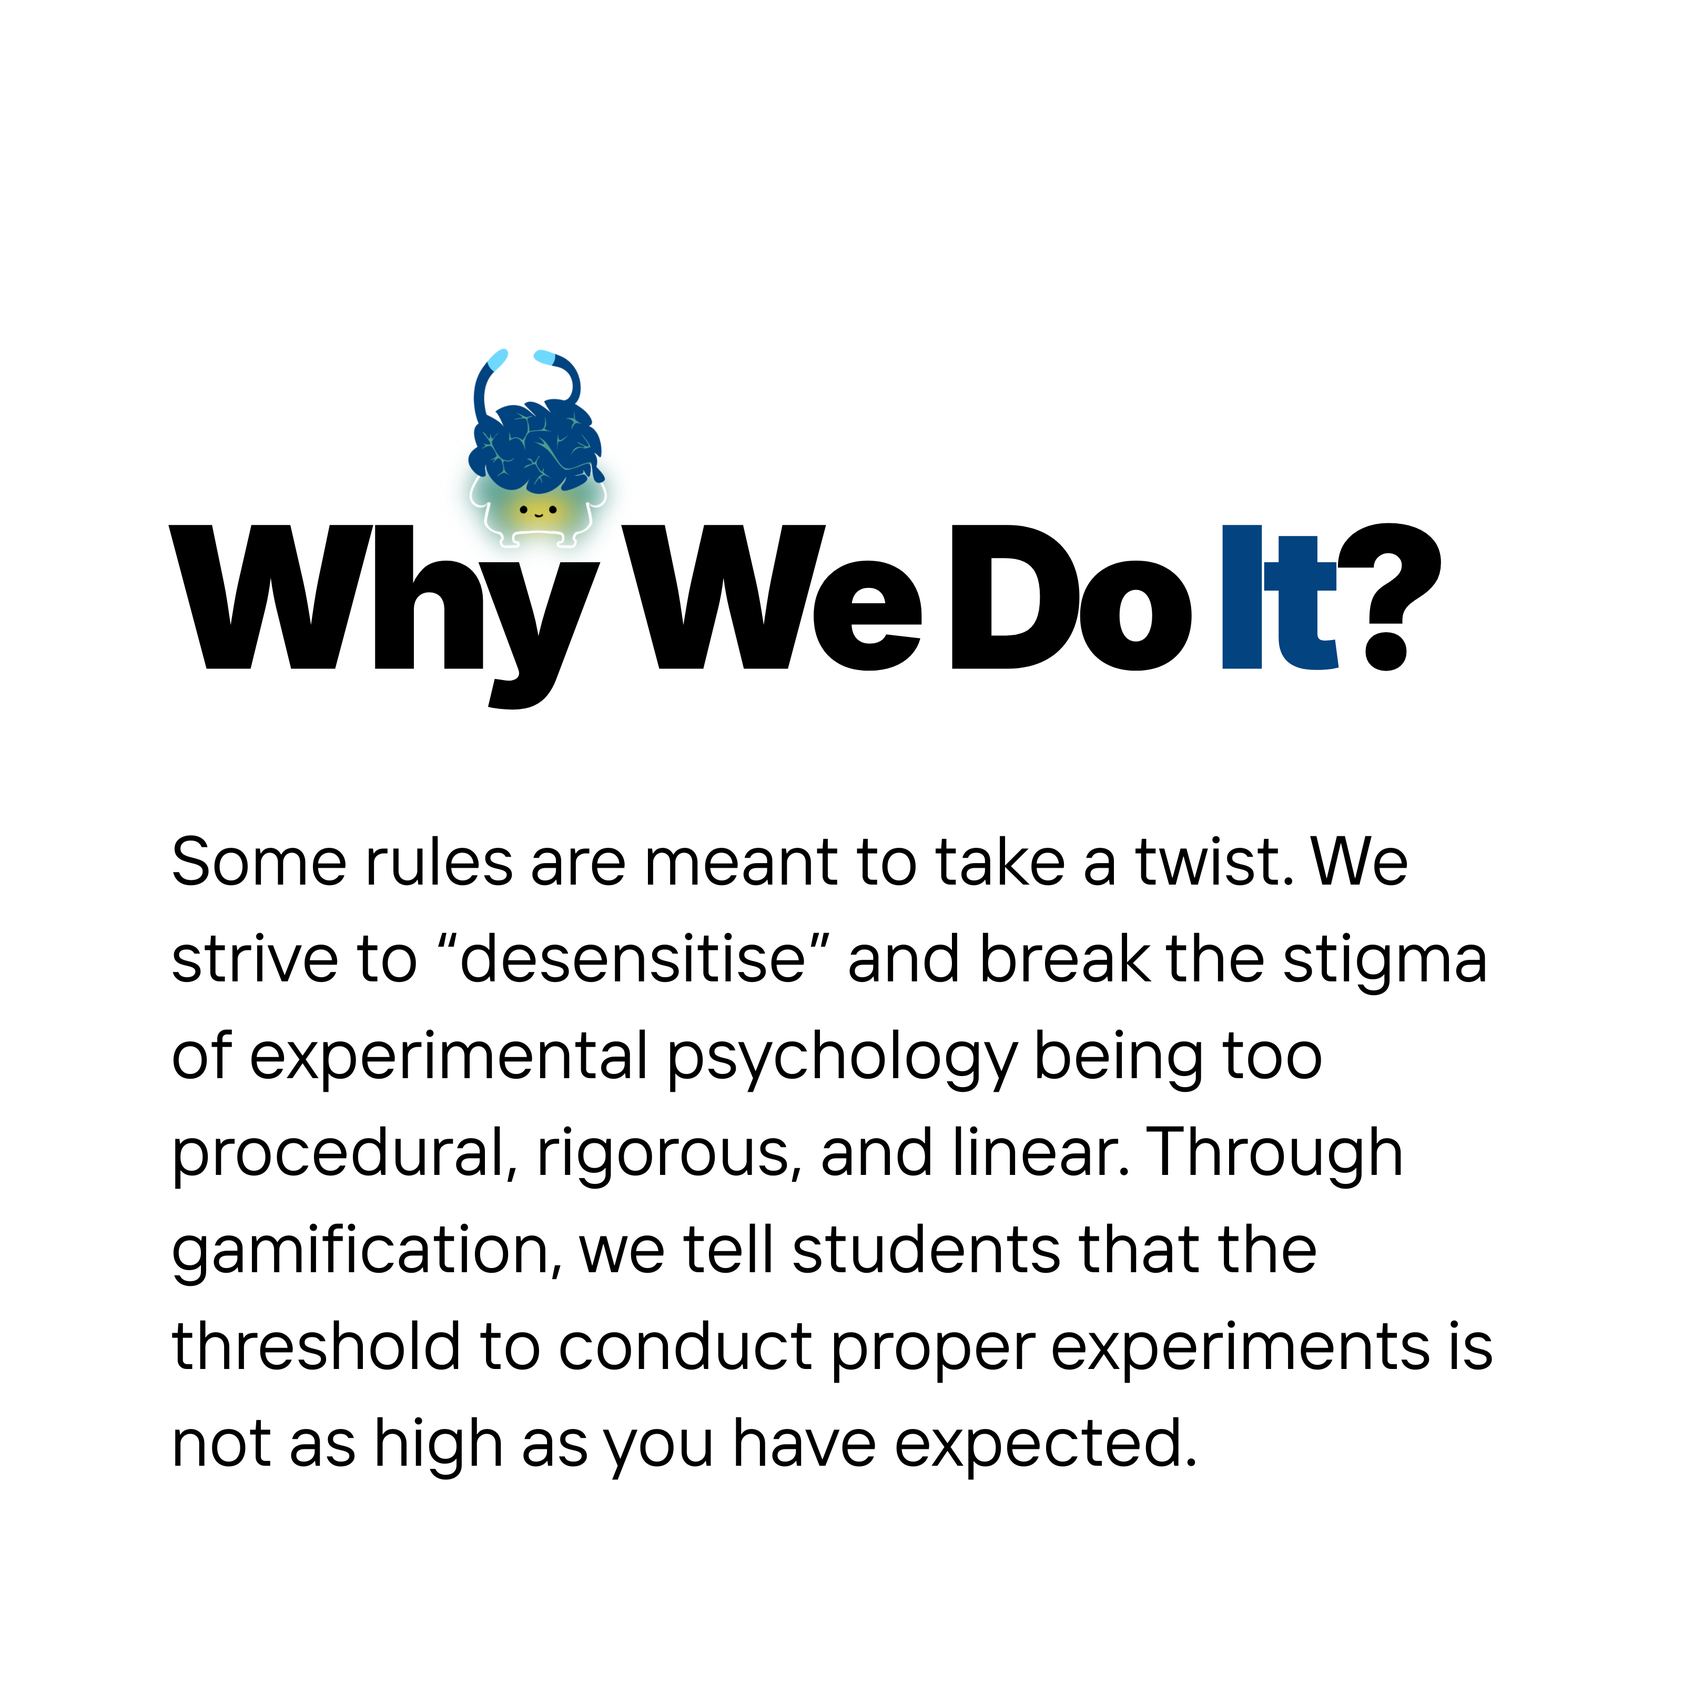
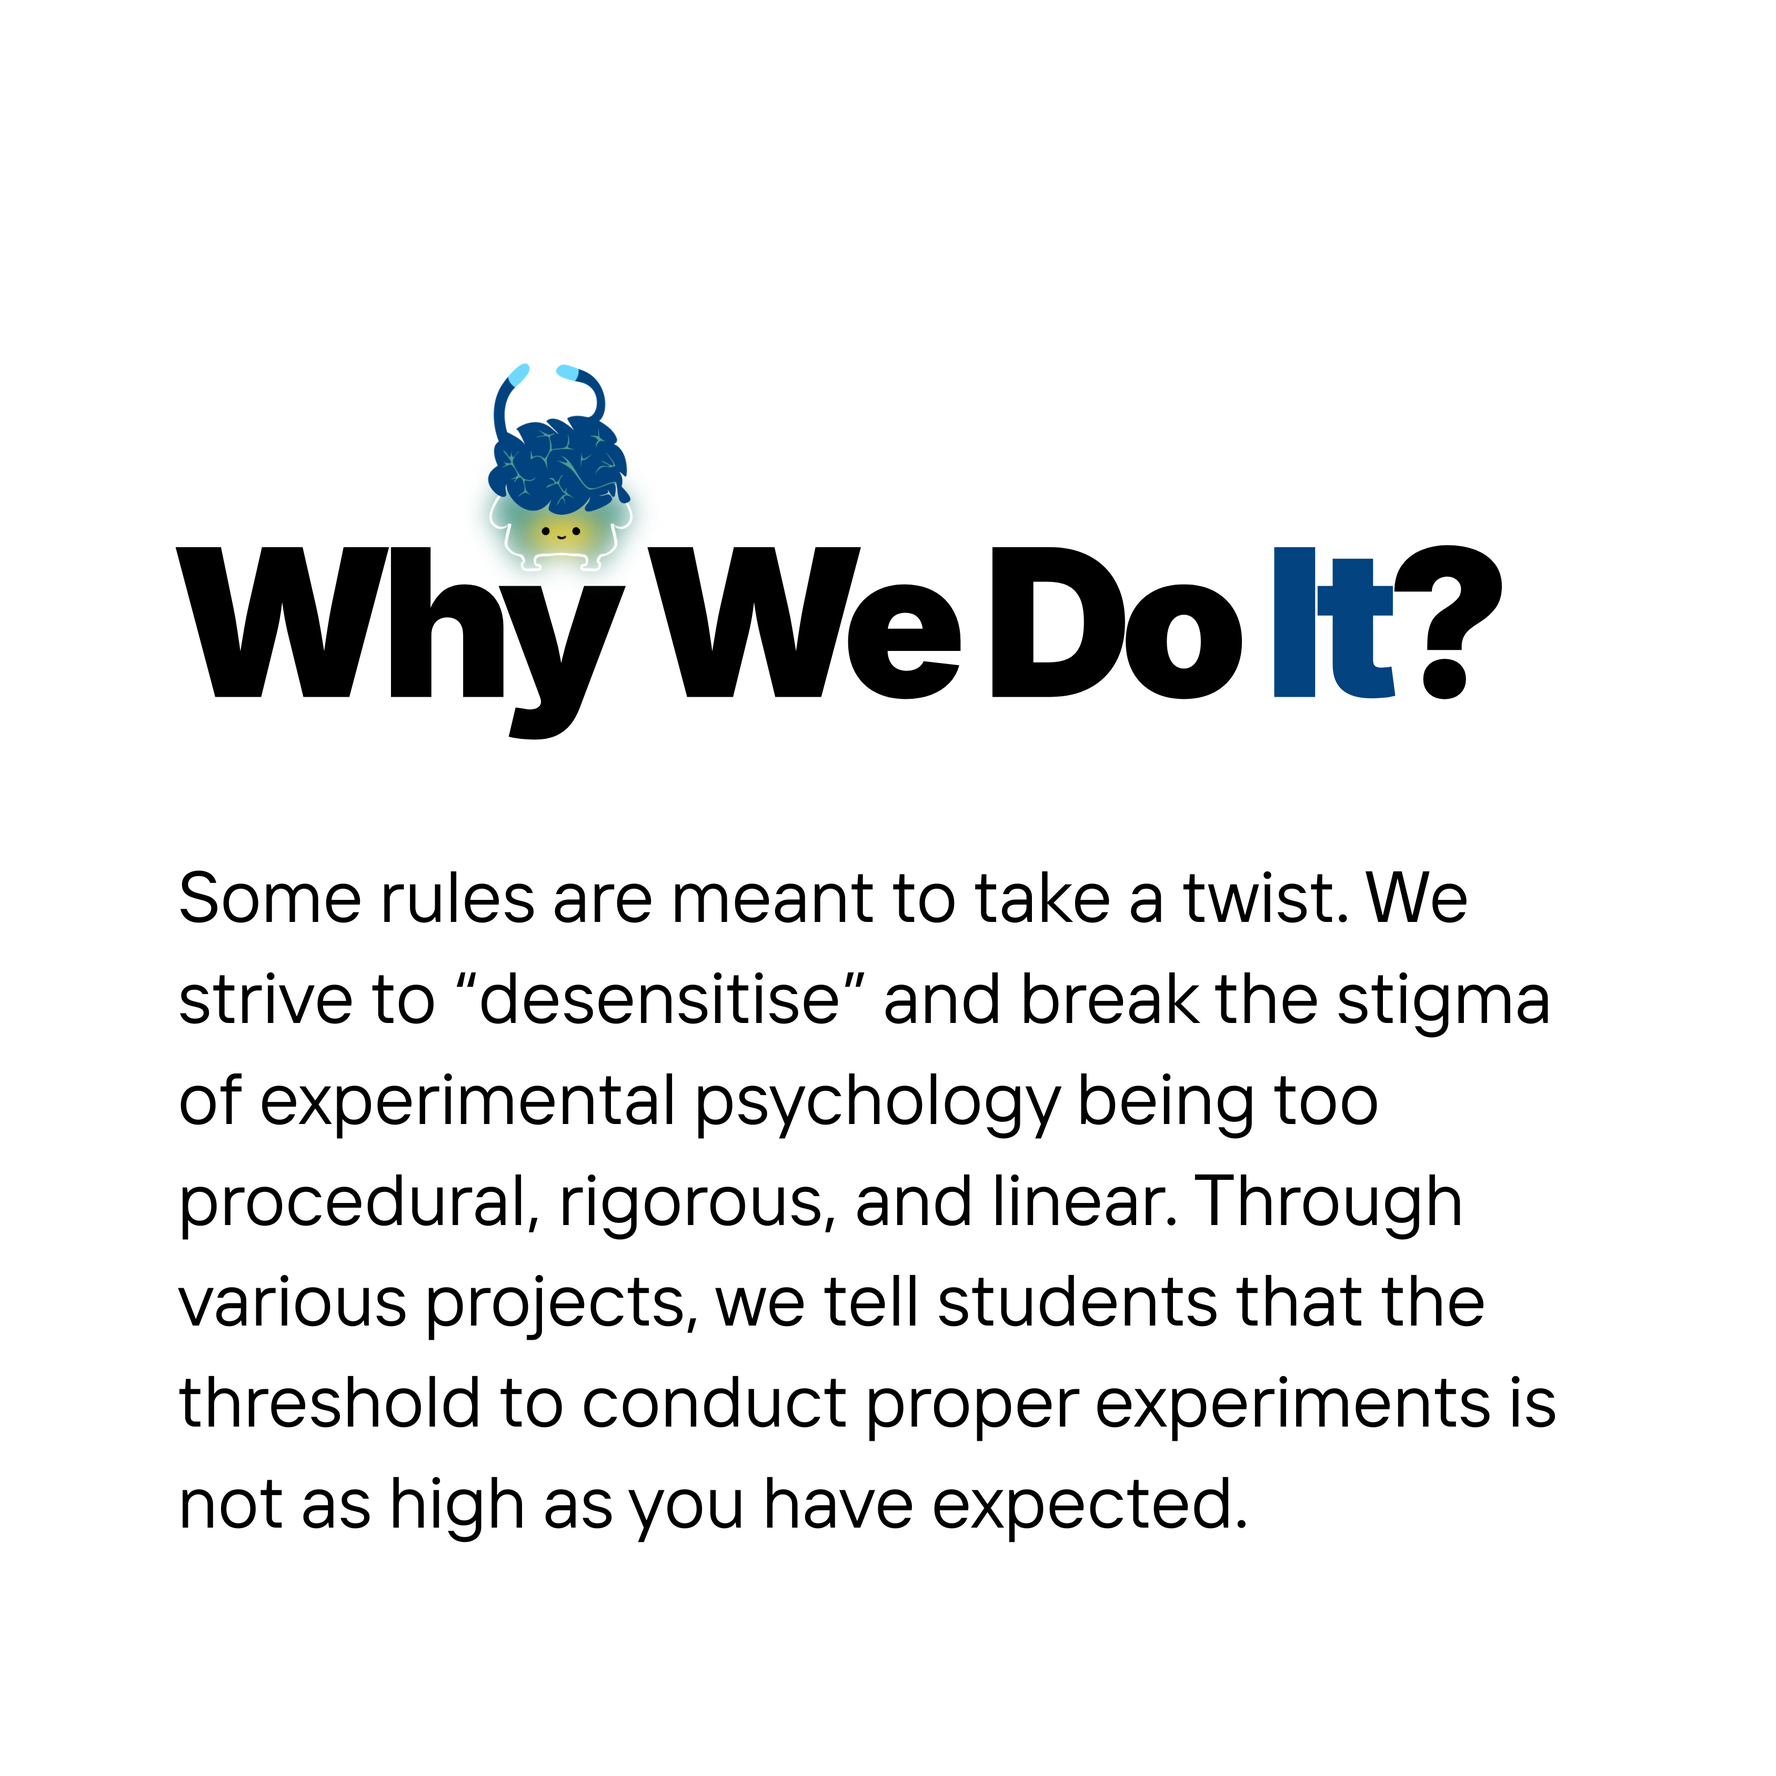
Word changes + Asset added + Publications modified

Changed region(s): [[0.0935, 0.717, 0.8417, 0.7481]]

diff --git a/resources/index.html b/resources/index.html
@@ -24,6 +24,7 @@
  
 <nav class="side-nav" id="sideNav">
   <button class="dot-btn" data-target="resources-index" aria-label="Go to Resources"><span class="diamond"></span></button>
+  <button class="dot-btn" data-target="pub-1" aria-label="Go to Publications"><span class="diamond"></span></button>
   <button class="dot-btn" data-target="tips-1" aria-label="Go to Tips and Tricks 1"><span class="diamond"></span></button>
   <button class="dot-btn" data-target="tips-2" aria-label="Go to Tips and Tricks 2"><span class="diamond"></span></button>
   <button class="dot-btn" data-target="psychopy-tips" aria-label="Go to PsychoPy Tips and Tricks"><span class="diamond"></span></button>
@@ -92,7 +93,12 @@
           <span class="pub-year display">2018</span>
           <span class="pub-connector"><span class="pub-dot"></span></span>
         </div>
-        <p class="pub-citation">Mah, S. L., &amp; George, P. (2018). A forgetful and angry old lady. Malaysian family physician : the official journal of the Academy of Family Physicians of Malaysia, 13(2), 26–28.</p>
+        <p class="pub-citation">
+          Mah, S. L., & George, P. (2018). A forgetful and angry old lady. 
+          <span class="apa-journal">Malaysian family physician : the official journal of the Academy of Family Physicians of Malaysia</span>, 
+          <span class="apa-volume">13</span>(2), 26–28.
+        </p>
+        <!-- <p class="pub-citation">Mah, S. L., &amp; George, P. (2018). A forgetful and angry old lady. Malaysian family physician : the official journal of the Academy of Family Physicians of Malaysia, 13(2), 26–28.</p> -->
         <div class="pub-links-row">
           <a href="https://pmc.ncbi.nlm.nih.gov/articles/PMC6173962/" target="_blank" rel="noopener">View on PubMed</a>
         </div>
@@ -113,7 +119,13 @@
           <span class="pub-year display">2022</span>
           <span class="pub-connector"><span class="pub-dot"></span></span>
         </div>
-        <p class="pub-citation">Dawes, C., Quinn, D., Bickerdike, A., O&rsquo;Neill, C., Granger, K. T., Pereira, S. C., Mah, S. L., Haselgrove, M., Waddington, J. L., O&rsquo;Tuathaigh, C., &amp; Moran, P. M. (2022). Latent inhibition, aberrant salience, and schizotypy traits in cannabis users. Schizophrenia Research: Cognition, 28, 100235.</p>
+        <p class="pub-citation">
+          Dawes, C., Quinn, D., Bickerdike, A., O’Neill, C., Granger, K. T., Pereira, S. C., Mah, S. L., Haselgrove, M., Waddington, J. L., O’Tuathaigh, C., &amp; Moran, P. M. (2022). Latent inhibition, aberrant salience, and schizotypy traits in cannabis users. 
+          <span class="apa-journal">Schizophrenia Research: Cognition</span>, 
+          <span class="apa-volume">28</span>, 100235. 
+          <!-- <a href="https://doi.org/10.1016/j.scog.2021.100235" class="apa-doi">https://doi.org/10.1016/j.scog.2021.100235</a> -->
+        </p>
+        <!-- <p class="pub-citation">Dawes, C., Quinn, D., Bickerdike, A., O&rsquo;Neill, C., Granger, K. T., Pereira, S. C., Mah, S. L., Haselgrove, M., Waddington, J. L., O&rsquo;Tuathaigh, C., &amp; Moran, P. M. (2022). Latent inhibition, aberrant salience, and schizotypy traits in cannabis users. Schizophrenia Research: Cognition, 28, 100235.</p> -->
         <div class="pub-links-row">
           <a href="https://doi.org/10.1016/j.scog.2021.100235" target="_blank" rel="noopener">View on Elsevier</a>
         </div>
@@ -126,34 +138,73 @@
     <div class="group-content pub-timeline">
       <div class="pub-entry">
         <div class="pub-year-row">
-          <span class="pub-year display">2023</span>
+          <span class="pub-year display">2024</span>
           <span class="pub-connector"><span class="pub-dot"></span></span>
         </div>
-        <p class="pub-citation">Haselgrove, M., &amp; Mah, S. L. (2023). A developmental trajectory of latent inhibition. Journal of Experimental Psychology: Animal Learning and Cognition, 50(3), 186-196.</p>
+        <p class="pub-citation">
+          Mah, S. L., &amp; Haselgrove, M. (2024). A developmental trajectory of latent inhibition. 
+          <span class="apa-journal">Journal of Experimental Psychology: Animal Learning and Cognition</span>, 
+          <span class="apa-volume">50</span>(3), 186–196. 
+          <!-- <a href="https://doi.org/10.1037/xan0000381" class="apa-doi">https://doi.org/10.1037/xan0000381</a> -->
+        </p>
+        <!-- <p class="pub-citation">Haselgrove, M., &amp; Mah, S. L. (2023). A developmental trajectory of latent inhibition. Journal of Experimental Psychology: Animal Learning and Cognition, 50(3), 186-196.</p> -->
         <div class="pub-links-row">
           <a href="https://doi.org/10.1037/xan0000381" target="_blank" rel="noopener">View on APA PsychNet</a>
           <a href="https://nottingham-repository.worktribe.com/output/32745728" target="_blank" rel="noopener">View on Nottingham Repo</a>
         </div>
+      </div>
+
+      <div class="pub-entry">
+        <div class="pub-year-row">
+          <span class="pub-year display">2025</span>
+          <span class="pub-connector"><span class="pub-dot"></span></span>
+        </div>
+        <p class="pub-citation">
+          Haselgrove, M., Lagator, S., Mah, S. L., &amp; Gray, E. K. (2025). Novelty mismatch as a determinant of latent inhibition. 
+          <span class="apa-journal">Journal of Experimental Psychology: Animal Learning and Cognition</span>, 
+          <span class="apa-volume">51</span>(1), 13–34. 
+        </p>
+        <!-- <p class="pub-citation">Haselgrove, M., Lagator, S., Mah, S. L., &amp; Gray, E. K. (2025). Novelty mismatch as a determinant of latent inhibition. Journal of Experimental Psychology: Animal Learning and Cognition, 51(1), 13–34.</p> -->
+          <div class="pub-links-row">
+            <a href="https://doi.org/10.1037/xan0000388" target="_blank" rel="noopener">View on APA PsychNet</a>
+          </div>
       </div>
       <div class="pub-entry">
         <div class="pub-year-row">
           <span class="pub-year display">2024</span>
           <span class="pub-connector"><span class="pub-dot"></span></span>
         </div>
-        <p class="pub-citation">Mah, S. L., &amp; Haselgrove, M. (2024). A developmental trajectory of latent inhibition. Journal of Experimental Psychology: Animal Learning and Cognition, 50(3), 186–196.</p>
+        <p class="pub-citation">
+          Mah, S. L., &amp; Teoh, Z. Bin. (2026). Mental health on the big screen: Using popular films to understand mental health. 
+          <span class="apa-journal">International Journal of Disney Studies</span>, 
+          <span class="apa-volume">2</span>(2), 195–201. 
+        </p>
+        <!-- <p class="pub-citation">Mah, S. L., &amp; Haselgrove, M. (2024). A developmental trajectory of latent inhibition. Journal of Experimental Psychology: Animal Learning and Cognition, 50(3), 186–196.</p> -->
         <div class="pub-links-row">
-          <a href="https://doi.org/10.1037/xan0000381" target="_blank" rel="noopener">View on APA PsychNet</a>
+          <a href="https://doi.org/10.1386/ijds_00036_7" target="_blank" rel="noopener">View on Intellect Discover</a>
         </div>
       </div>
+    </div>
+  </section>
+
+    <section class="panel group-panel" id="pub-4">
+    
+    <div class="group-content pub-timeline">
       <div class="pub-entry">
         <div class="pub-year-row">
-          <span class="pub-year display">2025</span>
+          <span class="pub-year display">2026</span>
           <span class="pub-connector"><span class="pub-dot"></span></span>
         </div>
-        <p class="pub-citation">Haselgrove, M., Lagator, S., Mah, S. L., &amp; Gray, E. K. (2025). Novelty mismatch as a determinant of latent inhibition. Journal of Experimental Psychology: Animal Learning and Cognition, 51(1), 13–34.</p>
-          <div class="pub-links-row">
-            <a href="https://doi.org/10.1037/xan0000388" target="_blank" rel="noopener">View on APA PsychNet</a>
-          </div>
+        <!-- <p class="pub-citation">Mah, S. L. & Teoh, Z. B. (2026). Mental health on the big screen: Using popular films to ubderstand mental health. International Journal of Disney Studios, 2(2), 195-201.</p> -->
+        <p class="pub-citation">
+          Price, J., Beh, A., Chandesa, T., Mah, S. L., &amp; Khoo, J. (2026). 
+          <span class="apa-report-title">From policy to practice: Governing generative AI for coherent learning and assessment transformation</span> 
+          [Case study]. Advance HE Global Impact Grants 2026.
+        </p>
+        <div class="pub-links-row">
+          <a href="https://doi.org/10.1037/xan0000381" target="_blank" rel="noopener">View on APA PsychNet</a>
+          <a href="https://nottingham-repository.worktribe.com/output/32745728" target="_blank" rel="noopener">View on Nottingham Repo</a>
+        </div>
       </div>
     </div>
   </section>
@@ -316,7 +367,7 @@
   </section>
 
   <div class="footer-note">
-      <span>&copy; 2026 ALiEN Lab, Dr Mah Sue Lynn.</span>
+      <span>&copy; 2026 ALiEN Lab, Dr Sue Lynn Mah.</span>
       <span>All rights reserved.</span>
     </div>
  

diff --git a/lablife/index.html b/lablife/index.html
@@ -53,7 +53,7 @@
         <img class="lablife-image" src="../assets/lablife-1.png" alt="Literature Review Workshop">
         <div class="lablife-copy">
           <h2 class="lablife-heading display">Literature Review Workshop</h2>
-          <p class="lablife-body">Led by Dr. Ooi Wee Liam and Dr. Mah Sue Lynn, the workshop held on 9 December covered identifying literature gaps and developing clear literature reviews through practical activities and feedback. Overall, it successfully supported both final-year and second-year students in preparing for their research projects.</p>
+          <p class="lablife-body">Led by Dr. Wee Liam Ooi and Dr. Sue Lynn Mah, the workshop held on 9 December covered identifying literature gaps and developing clear literature reviews through practical activities and feedback. Overall, it successfully supported both final-year and second-year students in preparing for their research projects.</p>
         </div>
       </article>
 
@@ -87,7 +87,7 @@
         <img class="lablife-image" src="../assets/lablife-4.png" alt="Literature Review Workshop">
         <div class="lablife-copy">
           <h2 class="lablife-heading display">Visit to Mapúa University, Philippines</h2>
-          <p class="lablife-body">Led by Dr. Mah Sue Lynn and Dr. Nancy Ng, the visit included masterclasses and workshops on PsychoPy and real-time body tracking using MediaPipe, alongside campus and facility tours and meetings with faculty. The trip also exposed participants to diverse psychology career pathways and potential future collaborations between institutions.</p>
+          <p class="lablife-body">Led by Dr. Sue Lynn Mah and Dr. Nancy Ng, the visit included masterclasses and workshops on PsychoPy and real-time body tracking using MediaPipe, alongside campus and facility tours and meetings with faculty. The trip also exposed participants to diverse psychology career pathways and potential future collaborations between institutions.</p>
         </div>
       </article>
 
@@ -95,7 +95,7 @@
   </div>
 
   <div class="footer-note lablife-footer">
-    <span>&copy; 2026 ALiEN Lab, Dr Mah Sue Lynn.</span>
+    <span>&copy; 2026 ALiEN Lab, Dr Sue Lynn Mah.</span>
     <span>All rights reserved.</span>
   </div>
 </main>

diff --git a/index.html b/index.html
@@ -80,7 +80,7 @@
       </div>
       <div>
         <h2 class="we-are-title display">We <span class="accent">are</span></h2>
-        <p class="we-are-body">an experimental psychology lab that helps students design innovative behavioural experiments, create gamified research tasks, and collaborate on everything from developmental studies to playful case studies, providing early exposure in conducting hands-on psychological experiments and in discovering the various fields of psychology.</p>
+        <p class="we-are-body">an experimental psychology lab that designs innovative behavioural experiments, create gamified research tasks, and collaborate on everything from developmental studies to case studies, providing early exposure in conducting hands-on psychological experiments and in discovering the various fields of psychology.</p>
         <div class="stat-row">
           <div><b>12</b><span>active members</span></div>
           <div><b>5</b><span>studies run</span></div>
@@ -105,7 +105,7 @@
       </div>
       <div class="work-tile wt2">
         <div class="tag">Attention study</div>
-        <h5>Coral Task</h5>
+        <h5>Corsi Task</h5>
       </div>
       <div class="work-tile wt3"><div class="tag">Perception study</div><h5>Calculator</h5></div>
       <div class="work-tile wt4"><div class="tag">Memory study</div><h5>Assessing Risk Taking in Children</h5></div>
@@ -152,7 +152,7 @@
   </section>
 
     <div class="footer-note">
-      <span>&copy; 2026 ALiEN Lab, Dr Mah Sue Lynn.</span>
+      <span>&copy; 2026 ALiEN Lab, Dr Sue Lynn Mah.</span>
       <span>All rights reserved.</span>
     </div>
 

diff --git a/story/index.html b/story/index.html
@@ -55,7 +55,7 @@
         <h1 class="story-hero-title display">How It Started</h1>
         <p class="story-hero-date">On 21st July, 2025,</p>
         <p class="story-hero-body">four enthusiastic students came knocking on Dr Mah&rsquo;s office door, seeking an opportunity to work as research assistants for her. Believing in her core values, Dr Mah decided to establish ALiEN Lab despite it being an informal lab.</p>
-        <p class="story-hero-body">She did not only want to provide her students with hands-on experience in real-world academic projects, but she also hoped that experimental psychology, her expertise, could be viewed as fun and engaging instead of procedural and rigorous.</p>
+        <p class="story-hero-body">She did not only want to provide her students with hands-on experience in real-world academic projects, but she also hoped that experimental psychology, her expertise, could be viewed as accessible and engaging instead of procedural and rigorous.</p>
       </div>
     </div>
   </section>
@@ -92,7 +92,7 @@
   </section>
 
   <div class="footer-note">
-    <span>&copy; 2026 ALiEN Lab, Dr Mah Sue Lynn.</span>
+    <span>&copy; 2026 ALiEN Lab, Dr Sue Lynn Mah.</span>
     <span>All rights reserved.</span>
   </div>
 

diff --git a/team/index.html b/team/index.html
@@ -65,8 +65,8 @@
     </div>
     <div class="person-grid">
       <div class="person-card">
-        <img src="../assets/team-mah-sue-lynn.png" alt="Dr Mah Sue Lynn">
-        <h4>Dr Mah Sue Lynn</h4>
+        <img src="../assets/team-mah-sue-lynn.png" alt="Dr Sue Lynn Mah">
+        <h4>Dr Sue Lynn Mah</h4>
         <p class="person-body">Principal Investigator</p>
         <span>Graduated Bsc (HONS) in Psychology and Cognitive Neuroscience at University of Nottingham Malaysia, and PhD in Psychology at University of Nottingham UK. Served as a maintainer of PsychoPy and Pavlovia.</span>
         <div class="person-links-row">
@@ -183,7 +183,7 @@
       <div class="connect-info">
         <div class="connect-row">
           <span class="connect-label">Head of Lab</span>
-          <span class="connect-value">Dr Mah Sue Lynn</span>
+          <span class="connect-value">Dr Sue Lynn Mah</span>
         </div>
         <div class="connect-row">
           <span class="connect-label">Email</span>
@@ -209,7 +209,7 @@
   </section>
 
   <div class="footer-note">
-    <span>&copy; 2026 ALiEN Lab, Dr Mah Sue Lynn.</span>
+    <span>&copy; 2026 ALiEN Lab, Dr Sue Lynn Mah.</span>
     <span>All rights reserved.</span>
   </div>
 

diff --git a/styles.css b/styles.css
@@ -1343,6 +1343,11 @@
   transform:translateY(-3px); 
 }
 
+.pub-citation .apa-journal,
+.pub-citation .apa-volume {
+  font-style: italic;
+}
+
 /* ---------- responsive ---------- */
 @media (max-width:900px){
   .resource-grid{ grid-template-columns:repeat(2, 1fr); }
